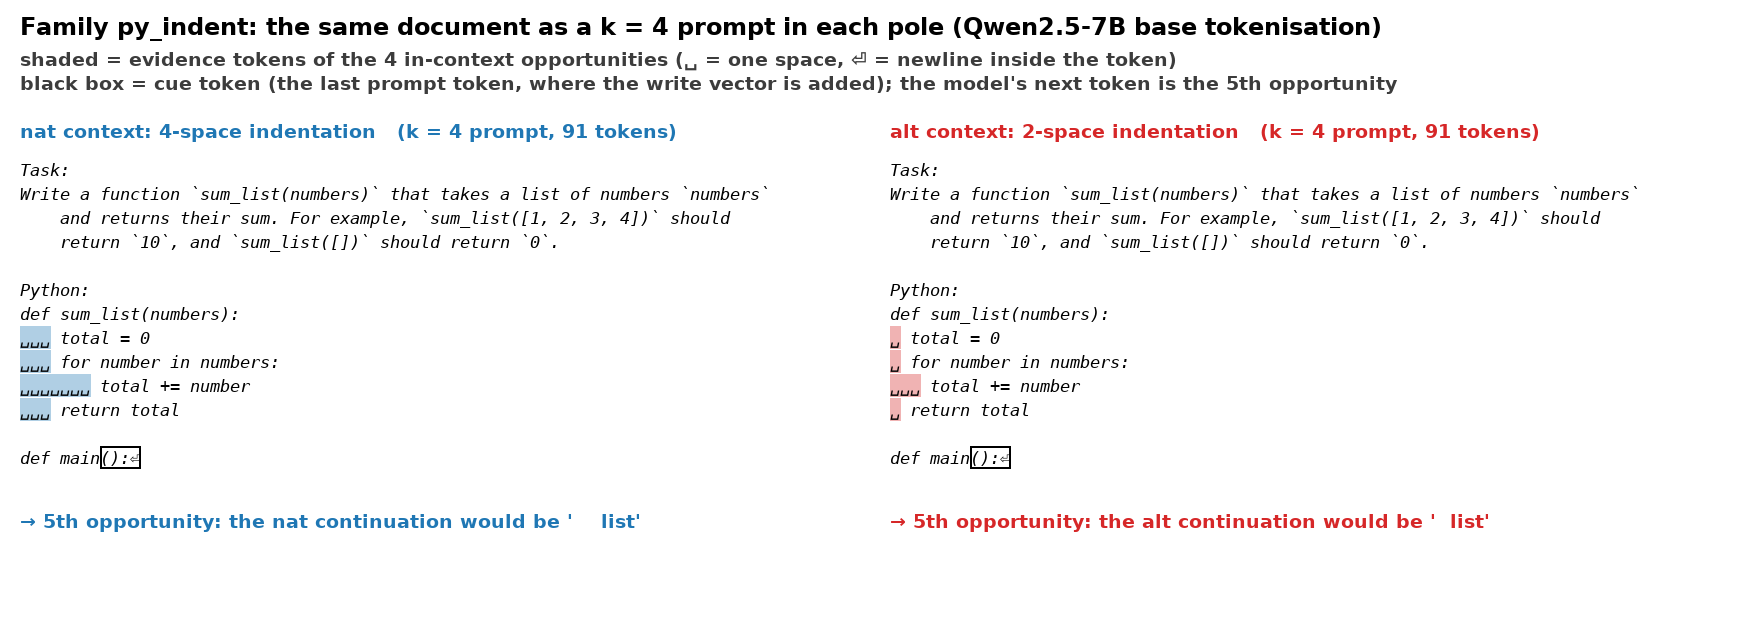
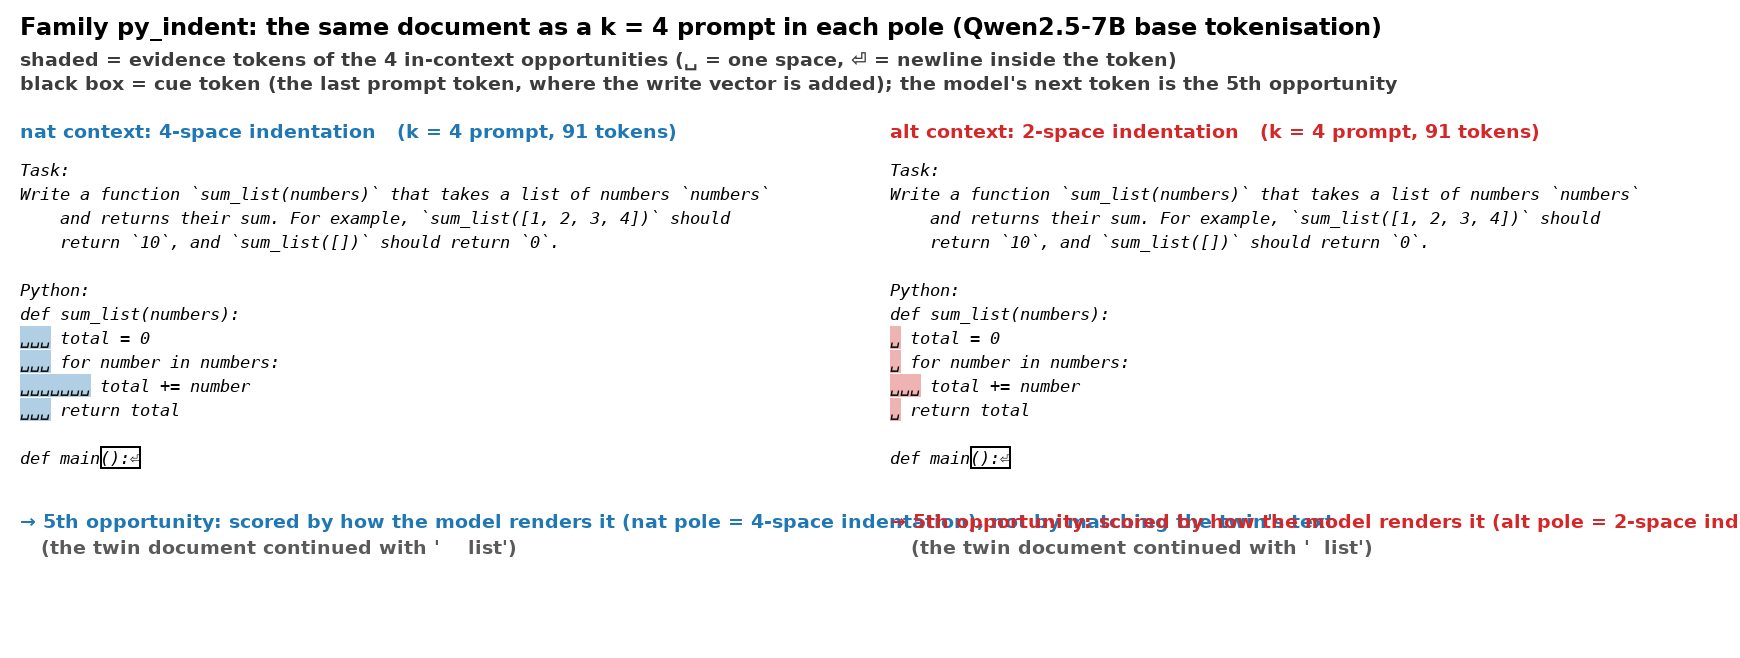
prompt example figure: footer describes how the 5th opportunity is scored (rendering, not the twin's text)

diff --git a/src/sandbox/style_translation/writeup_prompt_example.py b/src/sandbox/style_translation/writeup_prompt_example.py
@@ -66,7 +66,7 @@ def main():
         pos = [j for e in ev[(args.doc, s)]["instances"][:4] for j in e["idx"]]
         panels.append((s, p, layout(tok, p["prompt_ids"], pos, len(p["prompt_ids"]) - 1)))
     nlines = max(len(l) for _, _, l in panels)
-    PW = int(cw * (WRAP + 2)) + 40; PH = int(ch * (nlines + 3)) + 90
+    PW = int(cw * (WRAP + 2)) + 40; PH = int(ch * (nlines + 3)) + 120
     img = Image.new("RGB", (2 * PW + 60, PH + 130), "white"); d = ImageDraw.Draw(img)
     d.text((20, 12), f"Family {fam}: the same document as a k = 4 prompt in each pole (Qwen2.5-7B base tokenisation)", font=FH, fill="black")
     d.text((20, 48), "shaded = evidence tokens of the 4 in-context opportunities (␣ = one space, ⏎ = newline inside the token)", font=FT, fill=(60, 60, 60))
@@ -87,7 +87,8 @@ def main():
             if cue_x is not None:                      # one box around the whole cue token
                 d.rectangle([cue_x, y - 2, cue_end, y + ch - 4], outline="black", width=2)
             y += ch
-        d.text((x0, y + 14), f"→ 5th opportunity: the {s} continuation would be {p[f'next_{s}']!r}", font=FT, fill=col)
+        d.text((x0, y + 14), f"→ 5th opportunity: scored by how the model renders it ({s} pole = {labels[s]}), not by matching the twin's text", font=FT, fill=col)
+        d.text((x0, y + 40), f"   (the twin document continued with {p[f'next_{s}']!r})", font=FT, fill=(90, 90, 90))
     out = MP["results"] / "writeup" / f"prompt_example_{fam}.png"; img.save(out); print("->", out, args.doc)
 
 
